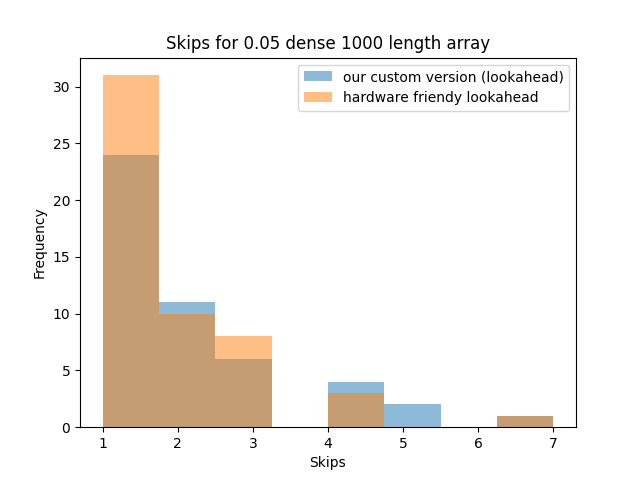
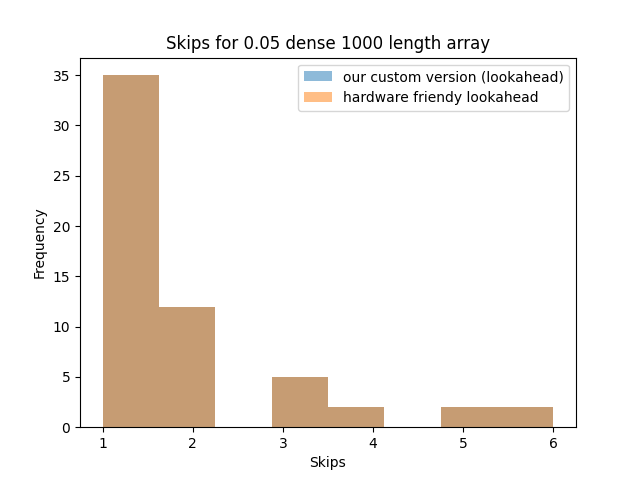
improved extensor slightly

diff --git a/test.py b/test.py
@@ -112,6 +112,8 @@ class Collider_with_skip():
         self.right_values = [(i, right.get_value_at(i)) for i in self.right_indices]
         self.left.get_next_element()
         self.right.get_next_element()
+        self.leftCanGoOver = len(left) <= T
+        self.rightCanGoOver = len(right) <= T
 
 
     def get_next_collision(self, left, right):
@@ -124,7 +126,10 @@ class Collider_with_skip():
             # This operation is done in one cycle in the hardware implementation
             min_index_with_checkpoint = list(filter(lambda x: x[1] <= right.peek(), self.left_values))
             if len(min_index_with_checkpoint) > 0 and left.current_index() < min_index_with_checkpoint[-1][0]:
-                left.move_head(min_index_with_checkpoint[-1][0])
+                if self.leftCanGoOver:
+                    left.move_head(min_index_with_checkpoint[-1][0]+1)
+                else:
+                    left.move_head(min_index_with_checkpoint[-1][0])
             else:
                 left.get_next_element()
             return MAYBE_COLLISION
@@ -132,7 +137,10 @@ class Collider_with_skip():
             # This operation is done in one cycle in the hardware implementation
             min_index_with_checkpoint = list(filter(lambda x: x[1] <= left.peek(), self.right_values))
             if len(min_index_with_checkpoint) > 0 and right.current_index() < min_index_with_checkpoint[-1][0]:
-                right.move_head(min_index_with_checkpoint[-1][0])
+                if self.rightCanGoOver:
+                    right.move_head(min_index_with_checkpoint[-1][0]+1)
+                else:
+                    right.move_head(min_index_with_checkpoint[-1][0])
             else:
                 right.get_next_element()
             return MAYBE_COLLISION

diff --git a/plot.py b/plot.py
@@ -83,9 +83,9 @@ for trial in range(trials):
 
 for i in range(4):
     plt.errorbar(Ts, list(map(lambda x : x.mean(), results[i])), list(map(lambda x: x.std(), results[i])), label=collider_names[i])
-plt.xlabel('T/N')
+plt.xlabel('Buffer size')
 plt.ylabel('Cycles')
-plt.title('T/N vs Cycles for a 0.05 dense 1000 length array')
+plt.title('Buffer size vs Cycles for a 0.05 dense 1000 length array')
 # Show labels
 plt.legend()
 plt.savefig('plt3.png')
